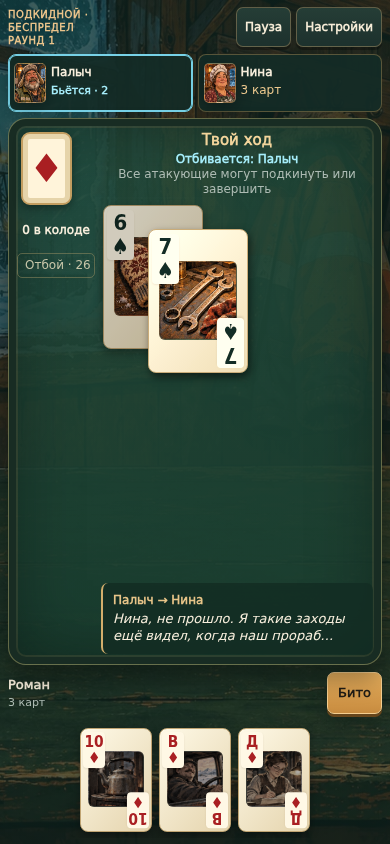
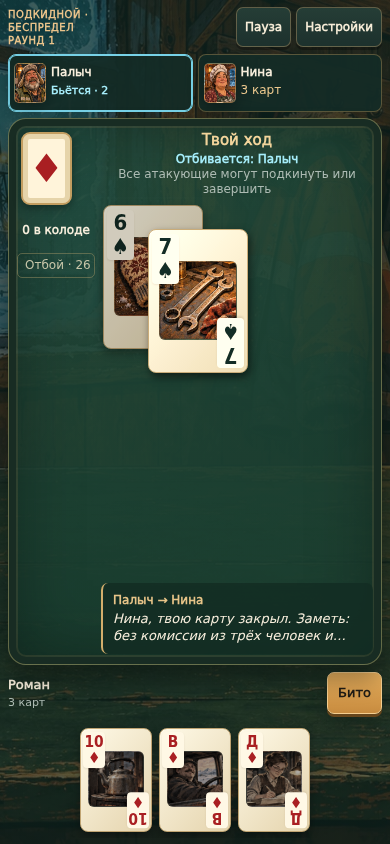
Make in-game dialogue messages passive and remove history modal

Changed region(s): [[0.3077, 0.7085, 0.8923, 0.7701]]

diff --git a/public/build/app-a95acb478969f48e.js b/public/build/app-a95acb478969f48e.js
@@ -3007,7 +3007,7 @@
       )
       .join(
         "",
-      )}</div><section class="table-zone"><aside class="stocks"><div class="stock-pile">${E.stockCount(G) > 0 ? backCard() : ""}${E.stockCount(G) > 0 ? card(G.trumpCard, { classes: "trump-show" }) : `<div class="empty-trump ${G.trump === 1 || G.trump === 2 ? "red" : "black"}" role="img" aria-label="Козырная масть ${E.SUITS[G.trump]}"><span>${E.SUITS[G.trump]}</span></div>`}</div><strong>${E.stockCount(G)} в колоде</strong><div class="discard-target" aria-label="Отбой">Отбой · ${G.discard.length}</div></aside><div class="battle"><div class="turn-label"><strong>${nameRole}<span class="defender-line">${G.defender === 0 ? (G.taking ? "Ты берёшь карты" : "Атакуют тебя") : (G.taking ? "Берёт: " : "Отбивается: ") + name(G.defender)}</span></strong><small>${paused ? "Партия на паузе" : G.phase === "defending" ? (G.actor === 0 ? "Перетащи карту на цель или дважды нажми на свою карту." : "Защита в процессе") : G.phase === "taking" ? "Подкидывание перед взятием" : G.phase === "adding" ? "Все атакующие могут подкинуть или завершить" : "Ходи кнопкой или двойным нажатием на карту"}</small></div><div class="pairs" data-game="${esc(G.gameId)}" data-round="${G.round}">${G.table.length ? G.table.map((pair, i) => `<div class="card-pair">${card(pair.attack, { action: G.actor === 0 && G.phase === "defending" && pair.defense == null ? "cover" : "", extra: `data-pair="${i}"`, classes: pair.defense == null ? "uncovered" : "covered" })}${pair.defense != null ? card(pair.defense, { classes: "defense-card" }) : ""}</div>`).join("") : ""}</div><button data-action="talk" data-speaker="${dialog?.who ?? ""}" data-addressee="${dialog?.target ?? ""}" class="speech" aria-label="Прочитать реплику целиком" ${dialog ? "" : "hidden"}>${dialog ? avatar(G.players[dialog.who]?.npc ?? 0, emotion[dialog.who] || 0) : ""}<div><strong>${dialog ? name(dialog.who) + " → " + name(dialog.target) : ""}</strong><p id="dialog-text"></p></div></button></div><aside class="table-log"><h3>Журнал смены</h3><ol id="game-log"></ol><span class="discard-count">В отбое: ${G.discard.length}<br>Списано эффектами: ${G.effectDiscard.length}</span></aside></section><section class="human-zone ${G.defender === 0 ? "defending-player" : ""}"><div class="human-caption">${avatar(P.avatar)}<div><strong>${playerName()}</strong><small>${my.hand.length} карт</small></div><div class="game-actions">${actionButtons}${take ? button("Взять", "take", "danger") : ""}${pass ? button(G.taking ? "Готово" : "Бито", "pass", "primary") : ""}${selected != null ? button("Рассмотреть", "inspect", "small") : ""}${my.out ? '<span class="finished-note">Ты вышел. Бригада доигрывает.</span>' : ""}</div></div><div class="hand" role="group" aria-label="Твои карты" style="--hand-count:${Math.max(6, hand.length)}">${hand.map((c) => card(c, { action: "select-card", selected: c === selected, classes: canAct && !moves.some((a) => a.card === c) ? "not-playable" : "" })).join("")}</div><p class="hand-help">${canAct ? (selected == null ? "Выбери карту. Подсвечены карты с разрешённым действием." : selectedMoves.some((a) => a.type === "defend") ? "Перетащи на цель или дважды нажми для защиты." : selectedMoves.length ? "Нажми кнопку или дважды нажми на карту." : "Эта карта сейчас не подходит. Выбери другую.") : "Можно рассматривать свои карты, пока коллеги ходят."}</p></section></main>`;
+      )}</div><section class="table-zone"><aside class="stocks"><div class="stock-pile">${E.stockCount(G) > 0 ? backCard() : ""}${E.stockCount(G) > 0 ? card(G.trumpCard, { classes: "trump-show" }) : `<div class="empty-trump ${G.trump === 1 || G.trump === 2 ? "red" : "black"}" role="img" aria-label="Козырная масть ${E.SUITS[G.trump]}"><span>${E.SUITS[G.trump]}</span></div>`}</div><strong>${E.stockCount(G)} в колоде</strong><div class="discard-target" aria-label="Отбой">Отбой · ${G.discard.length}</div></aside><div class="battle"><div class="turn-label"><strong>${nameRole}<span class="defender-line">${G.defender === 0 ? (G.taking ? "Ты берёшь карты" : "Атакуют тебя") : (G.taking ? "Берёт: " : "Отбивается: ") + name(G.defender)}</span></strong><small>${paused ? "Партия на паузе" : G.phase === "defending" ? (G.actor === 0 ? "Перетащи карту на цель или дважды нажми на свою карту." : "Защита в процессе") : G.phase === "taking" ? "Подкидывание перед взятием" : G.phase === "adding" ? "Все атакующие могут подкинуть или завершить" : "Ходи кнопкой или двойным нажатием на карту"}</small></div><div class="pairs" data-game="${esc(G.gameId)}" data-round="${G.round}">${G.table.length ? G.table.map((pair, i) => `<div class="card-pair">${card(pair.attack, { action: G.actor === 0 && G.phase === "defending" && pair.defense == null ? "cover" : "", extra: `data-pair="${i}"`, classes: pair.defense == null ? "uncovered" : "covered" })}${pair.defense != null ? card(pair.defense, { classes: "defense-card" }) : ""}</div>`).join("") : ""}</div><div data-speaker="${dialog?.who ?? ""}" data-addressee="${dialog?.target ?? ""}" class="speech" ${dialog ? "" : "hidden"}>${dialog ? avatar(G.players[dialog.who]?.npc ?? 0, emotion[dialog.who] || 0) : ""}<div><strong>${dialog ? name(dialog.who) + " → " + name(dialog.target) : ""}</strong><p id="dialog-text"></p></div></div></div><aside class="table-log"><h3>Журнал смены</h3><ol id="game-log"></ol><span class="discard-count">В отбое: ${G.discard.length}<br>Списано эффектами: ${G.effectDiscard.length}</span></aside></section><section class="human-zone ${G.defender === 0 ? "defending-player" : ""}"><div class="human-caption">${avatar(P.avatar)}<div><strong>${playerName()}</strong><small>${my.hand.length} карт</small></div><div class="game-actions">${actionButtons}${take ? button("Взять", "take", "danger") : ""}${pass ? button(G.taking ? "Готово" : "Бито", "pass", "primary") : ""}${selected != null ? button("Рассмотреть", "inspect", "small") : ""}${my.out ? '<span class="finished-note">Ты вышел. Бригада доигрывает.</span>' : ""}</div></div><div class="hand" role="group" aria-label="Твои карты" style="--hand-count:${Math.max(6, hand.length)}">${hand.map((c) => card(c, { action: "select-card", selected: c === selected, classes: canAct && !moves.some((a) => a.card === c) ? "not-playable" : "" })).join("")}</div><p class="hand-help">${canAct ? (selected == null ? "Выбери карту. Подсвечены карты с разрешённым действием." : selectedMoves.some((a) => a.type === "defend") ? "Перетащи на цель или дважды нажми для защиты." : selectedMoves.length ? "Нажми кнопку или дважды нажми на карту." : "Эта карта сейчас не подходит. Выбери другую.") : "Можно рассматривать свои карты, пока коллеги ходят."}</p></section></main>`;
   }
   function eventView() {
     const v = F.spec(G);
@@ -3262,35 +3262,6 @@
       el.textContent = P.name;
       el.title = P.name;
     });
-  }
-  function openTalk() {
-    paused = true;
-    clearTimeout(timer);
-    audio.pause(true);
-    const entries = [
-      ...(dialog
-        ? [
-            {
-              title: G.players[dialog.who]?.name || "Бригада",
-              text: dialog.text,
-            },
-          ]
-        : []),
-      ...(G?.log || [])
-        .slice(-10)
-        .reverse()
-        .map((text) => ({ title: "Журнал смены", text: clean(text) })),
-    ];
-    const r = slicePage(
-      "talk",
-      entries.length
-        ? entries
-        : [{ title: "Бригада", text: "Чай налит. Карты на стол!" }],
-      1,
-    );
-    const e = r.items[0];
-    $("#overlay").innerHTML =
-      `<div class="modal compact-modal talk-modal" role="dialog" aria-modal="true"><h2>${esc(e.title)}</h2><p>${esc(e.text)}</p>${r.nav}${button("К игре", "unpause", "primary")}</div>`;
   }
   function render() {
     if (animating) return;
@@ -3601,10 +3572,6 @@
   async function handle(action, el) {
     if (animating) return;
     switch (action) {
-      case "talk":
-        pageIndex.talk = 0;
-        openTalk();
-        break;
       case "view-tab":
         view[el.dataset.key] = el.dataset.value;
         render();
@@ -3615,8 +3582,7 @@
           0,
           (pageIndex[el.dataset.key] || 0) + (action === "page-next" ? 1 : -1),
         );
-        if (el.dataset.key === "talk") openTalk();
-        else render();
+        render();
         break;
       case "menu":
         if (G && !G.finished) persist();

diff --git a/src/main.js b/src/main.js
@@ -234,7 +234,7 @@
       )
       .join(
         "",
-      )}</div><section class="table-zone"><aside class="stocks"><div class="stock-pile">${E.stockCount(G) > 0 ? backCard() : ""}${E.stockCount(G) > 0 ? card(G.trumpCard, { classes: "trump-show" }) : `<div class="empty-trump ${G.trump === 1 || G.trump === 2 ? "red" : "black"}" role="img" aria-label="Козырная масть ${E.SUITS[G.trump]}"><span>${E.SUITS[G.trump]}</span></div>`}</div><strong>${E.stockCount(G)} в колоде</strong><div class="discard-target" aria-label="Отбой">Отбой · ${G.discard.length}</div></aside><div class="battle"><div class="turn-label"><strong>${nameRole}<span class="defender-line">${G.defender === 0 ? (G.taking ? "Ты берёшь карты" : "Атакуют тебя") : (G.taking ? "Берёт: " : "Отбивается: ") + name(G.defender)}</span></strong><small>${paused ? "Партия на паузе" : G.phase === "defending" ? (G.actor === 0 ? "Перетащи карту на цель или дважды нажми на свою карту." : "Защита в процессе") : G.phase === "taking" ? "Подкидывание перед взятием" : G.phase === "adding" ? "Все атакующие могут подкинуть или завершить" : "Ходи кнопкой или двойным нажатием на карту"}</small></div><div class="pairs" data-game="${esc(G.gameId)}" data-round="${G.round}">${G.table.length ? G.table.map((pair, i) => `<div class="card-pair">${card(pair.attack, { action: G.actor === 0 && G.phase === "defending" && pair.defense == null ? "cover" : "", extra: `data-pair="${i}"`, classes: pair.defense == null ? "uncovered" : "covered" })}${pair.defense != null ? card(pair.defense, { classes: "defense-card" }) : ""}</div>`).join("") : ""}</div><button data-action="talk" data-speaker="${dialog?.who ?? ""}" data-addressee="${dialog?.target ?? ""}" class="speech" aria-label="Прочитать реплику целиком" ${dialog ? "" : "hidden"}>${dialog ? avatar(G.players[dialog.who]?.npc ?? 0, emotion[dialog.who] || 0) : ""}<div><strong>${dialog ? name(dialog.who) + " → " + name(dialog.target) : ""}</strong><p id="dialog-text"></p></div></button></div><aside class="table-log"><h3>Журнал смены</h3><ol id="game-log"></ol><span class="discard-count">В отбое: ${G.discard.length}<br>Списано эффектами: ${G.effectDiscard.length}</span></aside></section><section class="human-zone ${G.defender === 0 ? "defending-player" : ""}"><div class="human-caption">${avatar(P.avatar)}<div><strong>${playerName()}</strong><small>${my.hand.length} карт</small></div><div class="game-actions">${actionButtons}${take ? button("Взять", "take", "danger") : ""}${pass ? button(G.taking ? "Готово" : "Бито", "pass", "primary") : ""}${selected != null ? button("Рассмотреть", "inspect", "small") : ""}${my.out ? '<span class="finished-note">Ты вышел. Бригада доигрывает.</span>' : ""}</div></div><div class="hand" role="group" aria-label="Твои карты" style="--hand-count:${Math.max(6, hand.length)}">${hand.map((c) => card(c, { action: "select-card", selected: c === selected, classes: canAct && !moves.some((a) => a.card === c) ? "not-playable" : "" })).join("")}</div><p class="hand-help">${canAct ? (selected == null ? "Выбери карту. Подсвечены карты с разрешённым действием." : selectedMoves.some((a) => a.type === "defend") ? "Перетащи на цель или дважды нажми для защиты." : selectedMoves.length ? "Нажми кнопку или дважды нажми на карту." : "Эта карта сейчас не подходит. Выбери другую.") : "Можно рассматривать свои карты, пока коллеги ходят."}</p></section></main>`;
+      )}</div><section class="table-zone"><aside class="stocks"><div class="stock-pile">${E.stockCount(G) > 0 ? backCard() : ""}${E.stockCount(G) > 0 ? card(G.trumpCard, { classes: "trump-show" }) : `<div class="empty-trump ${G.trump === 1 || G.trump === 2 ? "red" : "black"}" role="img" aria-label="Козырная масть ${E.SUITS[G.trump]}"><span>${E.SUITS[G.trump]}</span></div>`}</div><strong>${E.stockCount(G)} в колоде</strong><div class="discard-target" aria-label="Отбой">Отбой · ${G.discard.length}</div></aside><div class="battle"><div class="turn-label"><strong>${nameRole}<span class="defender-line">${G.defender === 0 ? (G.taking ? "Ты берёшь карты" : "Атакуют тебя") : (G.taking ? "Берёт: " : "Отбивается: ") + name(G.defender)}</span></strong><small>${paused ? "Партия на паузе" : G.phase === "defending" ? (G.actor === 0 ? "Перетащи карту на цель или дважды нажми на свою карту." : "Защита в процессе") : G.phase === "taking" ? "Подкидывание перед взятием" : G.phase === "adding" ? "Все атакующие могут подкинуть или завершить" : "Ходи кнопкой или двойным нажатием на карту"}</small></div><div class="pairs" data-game="${esc(G.gameId)}" data-round="${G.round}">${G.table.length ? G.table.map((pair, i) => `<div class="card-pair">${card(pair.attack, { action: G.actor === 0 && G.phase === "defending" && pair.defense == null ? "cover" : "", extra: `data-pair="${i}"`, classes: pair.defense == null ? "uncovered" : "covered" })}${pair.defense != null ? card(pair.defense, { classes: "defense-card" }) : ""}</div>`).join("") : ""}</div><div data-speaker="${dialog?.who ?? ""}" data-addressee="${dialog?.target ?? ""}" class="speech" ${dialog ? "" : "hidden"}>${dialog ? avatar(G.players[dialog.who]?.npc ?? 0, emotion[dialog.who] || 0) : ""}<div><strong>${dialog ? name(dialog.who) + " → " + name(dialog.target) : ""}</strong><p id="dialog-text"></p></div></div></div><aside class="table-log"><h3>Журнал смены</h3><ol id="game-log"></ol><span class="discard-count">В отбое: ${G.discard.length}<br>Списано эффектами: ${G.effectDiscard.length}</span></aside></section><section class="human-zone ${G.defender === 0 ? "defending-player" : ""}"><div class="human-caption">${avatar(P.avatar)}<div><strong>${playerName()}</strong><small>${my.hand.length} карт</small></div><div class="game-actions">${actionButtons}${take ? button("Взять", "take", "danger") : ""}${pass ? button(G.taking ? "Готово" : "Бито", "pass", "primary") : ""}${selected != null ? button("Рассмотреть", "inspect", "small") : ""}${my.out ? '<span class="finished-note">Ты вышел. Бригада доигрывает.</span>' : ""}</div></div><div class="hand" role="group" aria-label="Твои карты" style="--hand-count:${Math.max(6, hand.length)}">${hand.map((c) => card(c, { action: "select-card", selected: c === selected, classes: canAct && !moves.some((a) => a.card === c) ? "not-playable" : "" })).join("")}</div><p class="hand-help">${canAct ? (selected == null ? "Выбери карту. Подсвечены карты с разрешённым действием." : selectedMoves.some((a) => a.type === "defend") ? "Перетащи на цель или дважды нажми для защиты." : selectedMoves.length ? "Нажми кнопку или дважды нажми на карту." : "Эта карта сейчас не подходит. Выбери другую.") : "Можно рассматривать свои карты, пока коллеги ходят."}</p></section></main>`;
   }
   function eventView() {
     const v = F.spec(G);
@@ -489,35 +489,6 @@
       el.textContent = P.name;
       el.title = P.name;
     });
-  }
-  function openTalk() {
-    paused = true;
-    clearTimeout(timer);
-    audio.pause(true);
-    const entries = [
-      ...(dialog
-        ? [
-            {
-              title: G.players[dialog.who]?.name || "Бригада",
-              text: dialog.text,
-            },
-          ]
-        : []),
-      ...(G?.log || [])
-        .slice(-10)
-        .reverse()
-        .map((text) => ({ title: "Журнал смены", text: clean(text) })),
-    ];
-    const r = slicePage(
-      "talk",
-      entries.length
-        ? entries
-        : [{ title: "Бригада", text: "Чай налит. Карты на стол!" }],
-      1,
-    );
-    const e = r.items[0];
-    $("#overlay").innerHTML =
-      `<div class="modal compact-modal talk-modal" role="dialog" aria-modal="true"><h2>${esc(e.title)}</h2><p>${esc(e.text)}</p>${r.nav}${button("К игре", "unpause", "primary")}</div>`;
   }
   function render() {
     if (animating) return;
@@ -828,10 +799,6 @@
   async function handle(action, el) {
     if (animating) return;
     switch (action) {
-      case "talk":
-        pageIndex.talk = 0;
-        openTalk();
-        break;
       case "view-tab":
         view[el.dataset.key] = el.dataset.value;
         render();
@@ -842,8 +809,7 @@
           0,
           (pageIndex[el.dataset.key] || 0) + (action === "page-next" ? 1 : -1),
         );
-        if (el.dataset.key === "talk") openTalk();
-        else render();
+        render();
         break;
       case "menu":
         if (G && !G.finished) persist();

diff --git a/sw.js b/sw.js
@@ -1,6 +1,6 @@
 /* Network first for navigation and assets. A failed connection falls back to this exact release. */
-const BUILD = {"version":"1.9.0","id":"fbca3985ca43019e","html":"index-fbca3985ca43019e.html","js":"public/build/app-fbca3985ca43019e.js","css":"public/build/app-fbca3985ca43019e.css"},
-  FILES = ["index.html","index-fbca3985ca43019e.html","public/build/app-fbca3985ca43019e.js","public/build/app-fbca3985ca43019e.css","public/assets/audio/button.wav?v=fbca3985ca43019e","public/assets/audio/card.wav?v=fbca3985ca43019e","public/assets/audio/cover.wav?v=fbca3985ca43019e","public/assets/audio/deal.wav?v=fbca3985ca43019e","public/assets/audio/event.wav?v=fbca3985ca43019e","public/assets/audio/kettle.wav?v=fbca3985ca43019e","public/assets/audio/music.wav?v=fbca3985ca43019e","public/assets/audio/take.wav?v=fbca3985ca43019e","public/assets/audio/win.wav?v=fbca3985ca43019e","public/assets/audio/wind.wav?v=fbca3985ca43019e","public/assets/cards.webp?v=fbca3985ca43019e","public/assets/decor.webp?v=fbca3985ca43019e","public/assets/events.webp?v=fbca3985ca43019e","public/assets/fonts/LICENSE.txt?v=fbca3985ca43019e","public/assets/fonts/body.ttf?v=fbca3985ca43019e","public/assets/fonts/heading.ttf?v=fbca3985ca43019e","public/assets/loss-crew.webp?v=fbca3985ca43019e","public/assets/npc-extra.webp?v=fbca3985ca43019e","public/assets/npc.webp?v=fbca3985ca43019e","public/assets/room.webp?v=fbca3985ca43019e"];
+const BUILD = {"version":"1.9.1","id":"a95acb478969f48e","html":"index-a95acb478969f48e.html","js":"public/build/app-a95acb478969f48e.js","css":"public/build/app-a95acb478969f48e.css"},
+  FILES = ["index.html","index-a95acb478969f48e.html","public/build/app-a95acb478969f48e.js","public/build/app-a95acb478969f48e.css","public/assets/audio/button.wav?v=a95acb478969f48e","public/assets/audio/card.wav?v=a95acb478969f48e","public/assets/audio/cover.wav?v=a95acb478969f48e","public/assets/audio/deal.wav?v=a95acb478969f48e","public/assets/audio/event.wav?v=a95acb478969f48e","public/assets/audio/kettle.wav?v=a95acb478969f48e","public/assets/audio/music.wav?v=a95acb478969f48e","public/assets/audio/take.wav?v=a95acb478969f48e","public/assets/audio/win.wav?v=a95acb478969f48e","public/assets/audio/wind.wav?v=a95acb478969f48e","public/assets/cards.webp?v=a95acb478969f48e","public/assets/decor.webp?v=a95acb478969f48e","public/assets/events.webp?v=a95acb478969f48e","public/assets/fonts/LICENSE.txt?v=a95acb478969f48e","public/assets/fonts/body.ttf?v=a95acb478969f48e","public/assets/fonts/heading.ttf?v=a95acb478969f48e","public/assets/loss-crew.webp?v=a95acb478969f48e","public/assets/npc-extra.webp?v=a95acb478969f48e","public/assets/npc.webp?v=a95acb478969f48e","public/assets/room.webp?v=a95acb478969f48e"];
 const SCOPE = new URL(self.registration.scope).pathname;
 const PREFIX = "durak-vahta-" + SCOPE.replace(/[^a-z0-9]/gi, "_") + "-";
 const CACHE = PREFIX + BUILD.id;

diff --git a/index-a95acb478969f48e.html b/index-a95acb478969f48e.html
@@ -4,7 +4,7 @@
 <head>
 <meta charset="utf-8">
 <meta name="viewport" content="width=device-width,initial-scale=1,viewport-fit=cover,interactive-widget=resizes-content">
-<meta name="vahta-build" content="fbca3985ca43019e">
+<meta name="vahta-build" content="a95acb478969f48e">
 <meta name="theme-color" content="#162c29">
 <meta http-equiv="Cache-Control" content="no-cache, no-store, must-revalidate">
 <title>Дурак на вахте</title>
@@ -13,7 +13,7 @@
 <body>
 <div id="app"></div><div id="overlay"></div><div id="toast" role="status" aria-live="polite"></div>
 <div id="boot" role="status"><span>Загрузка игры…</span></div>
-<script>window.VahtaBuild={"version":"1.9.0","id":"fbca3985ca43019e","html":"index-fbca3985ca43019e.html","js":"public/build/app-fbca3985ca43019e.js","css":"public/build/app-fbca3985ca43019e.css"};
+<script>window.VahtaBuild={"version":"1.9.1","id":"a95acb478969f48e","html":"index-a95acb478969f48e.html","js":"public/build/app-a95acb478969f48e.js","css":"public/build/app-a95acb478969f48e.css"};
 /* Revalidate before starting any game code. Offline fallback never mixes releases. */
 (async function () {
   "use strict";

diff --git a/index.html b/index.html
@@ -4,7 +4,7 @@
 <head>
 <meta charset="utf-8">
 <meta name="viewport" content="width=device-width,initial-scale=1,viewport-fit=cover,interactive-widget=resizes-content">
-<meta name="vahta-build" content="fbca3985ca43019e">
+<meta name="vahta-build" content="a95acb478969f48e">
 <meta name="theme-color" content="#162c29">
 <meta http-equiv="Cache-Control" content="no-cache, no-store, must-revalidate">
 <title>Дурак на вахте</title>
@@ -13,7 +13,7 @@
 <body>
 <div id="app"></div><div id="overlay"></div><div id="toast" role="status" aria-live="polite"></div>
 <div id="boot" role="status"><span>Загрузка игры…</span></div>
-<script>window.VahtaBuild={"version":"1.9.0","id":"fbca3985ca43019e","html":"index-fbca3985ca43019e.html","js":"public/build/app-fbca3985ca43019e.js","css":"public/build/app-fbca3985ca43019e.css"};
+<script>window.VahtaBuild={"version":"1.9.1","id":"a95acb478969f48e","html":"index-a95acb478969f48e.html","js":"public/build/app-a95acb478969f48e.js","css":"public/build/app-a95acb478969f48e.css"};
 /* Revalidate before starting any game code. Offline fallback never mixes releases. */
 (async function () {
   "use strict";

diff --git a/public/build/app-a95acb478969f48e.css b/public/build/app-a95acb478969f48e.css
@@ -1,10 +1,10 @@
 @font-face {
   font-family: Vahta;
-  src: url("../../public/assets/fonts/heading.ttf?v=fbca3985ca43019e");
+  src: url("../../public/assets/fonts/heading.ttf?v=a95acb478969f48e");
 }
 @font-face {
   font-family: Local;
-  src: url("../../public/assets/fonts/body.ttf?v=fbca3985ca43019e");
+  src: url("../../public/assets/fonts/body.ttf?v=a95acb478969f48e");
 }
 * {
   box-sizing: border-box;
@@ -21,14 +21,14 @@ body {
   line-height: 1.5;
   background:
     linear-gradient(90deg, rgba(11, 26, 25, 0.9), rgba(11, 26, 25, 0.28)),
-    url("../../public/assets/room.webp?v=fbca3985ca43019e") center/cover fixed;
+    url("../../public/assets/room.webp?v=a95acb478969f48e") center/cover fixed;
   min-height: 100vh;
 }
 body[data-screen="game"],
 body[data-screen="results"] {
   background:
     linear-gradient(#102722bd, #102722b0),
-    url("../../public/assets/room.webp?v=fbca3985ca43019e") center/cover fixed;
+    url("../../public/assets/room.webp?v=a95acb478969f48e") center/cover fixed;
 }
 button,
 input,

diff --git a/README.md b/README.md
@@ -209,3 +209,7 @@ Playgama/Yandex и любые публикационные интеграции 
 Добавлены 12 персональных абсурдных насмешек с матом для полного режима и 12 отдельных мягких версий. Варианты перемешиваются без повторов до исчерпания набора, без повторения соседних фраз на границе наборов. Фраза одного поражения и оставшийся набор сохраняются в профиле, включая экспорт/импорт. Имя берётся из профиля и выводится безопасно текстом. Старые сохранения без состояния насмешек поддерживаются.
 
 Проверки: `test:gestures` — 15 сценариев жестов на телефоне в двух ориентациях и с мышью, включая выбор подходящей второй цели; `test:loss` — чередование фраз через сохранения и реальные последние ходы с поражением на шести экранах от 320×568 до 1366×768, загрузка изображения, доступные кнопки и новая партия. Дополнительно проверены правила, 1000 симуляций, мобильные руки, прежние анимации, диалоги и обновление офлайн-кэша.
+
+## Версия 1.9.1: реплики без действий по нажатию
+
+Сообщения персонажей отображаются обычными текстовыми блоками. У них нет действия, роли кнопки или перехода в журнал. Код окна реплик и обработчик его открытия удалены: нажатие на сообщение, имя или текст не открывает окно и не ставит партию на паузу. Браузерные проверки диалогов проверяют это вместе с правильными адресатами реплик.
